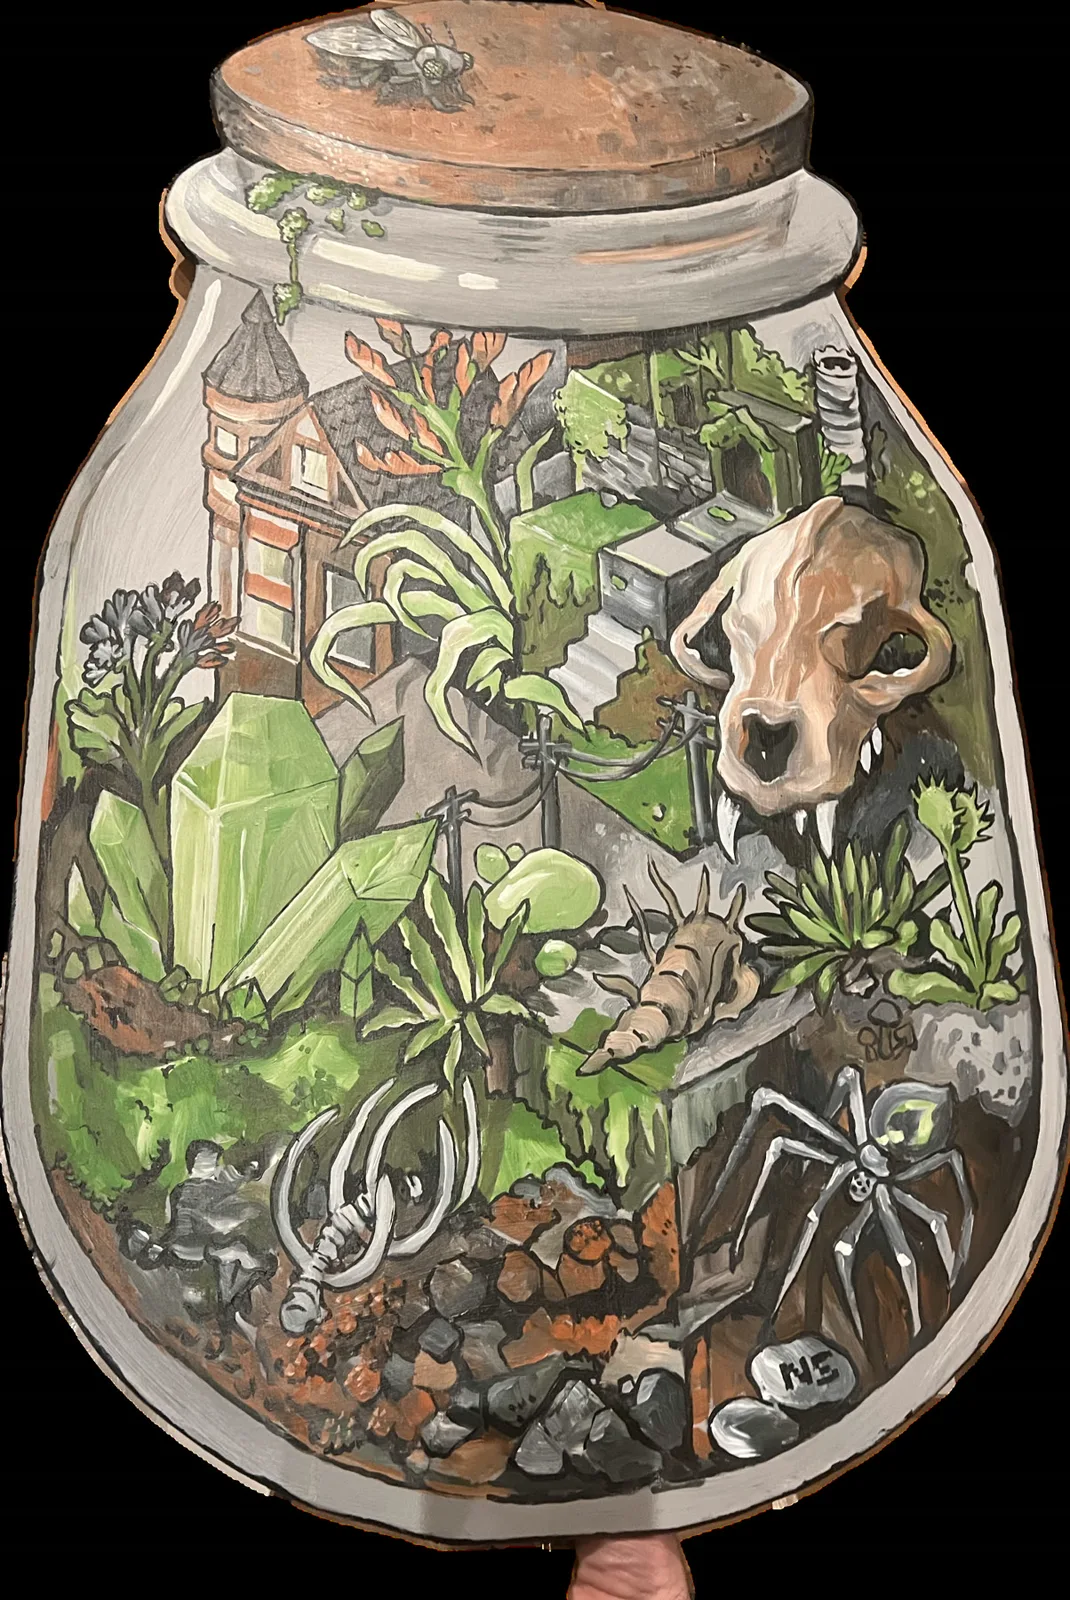
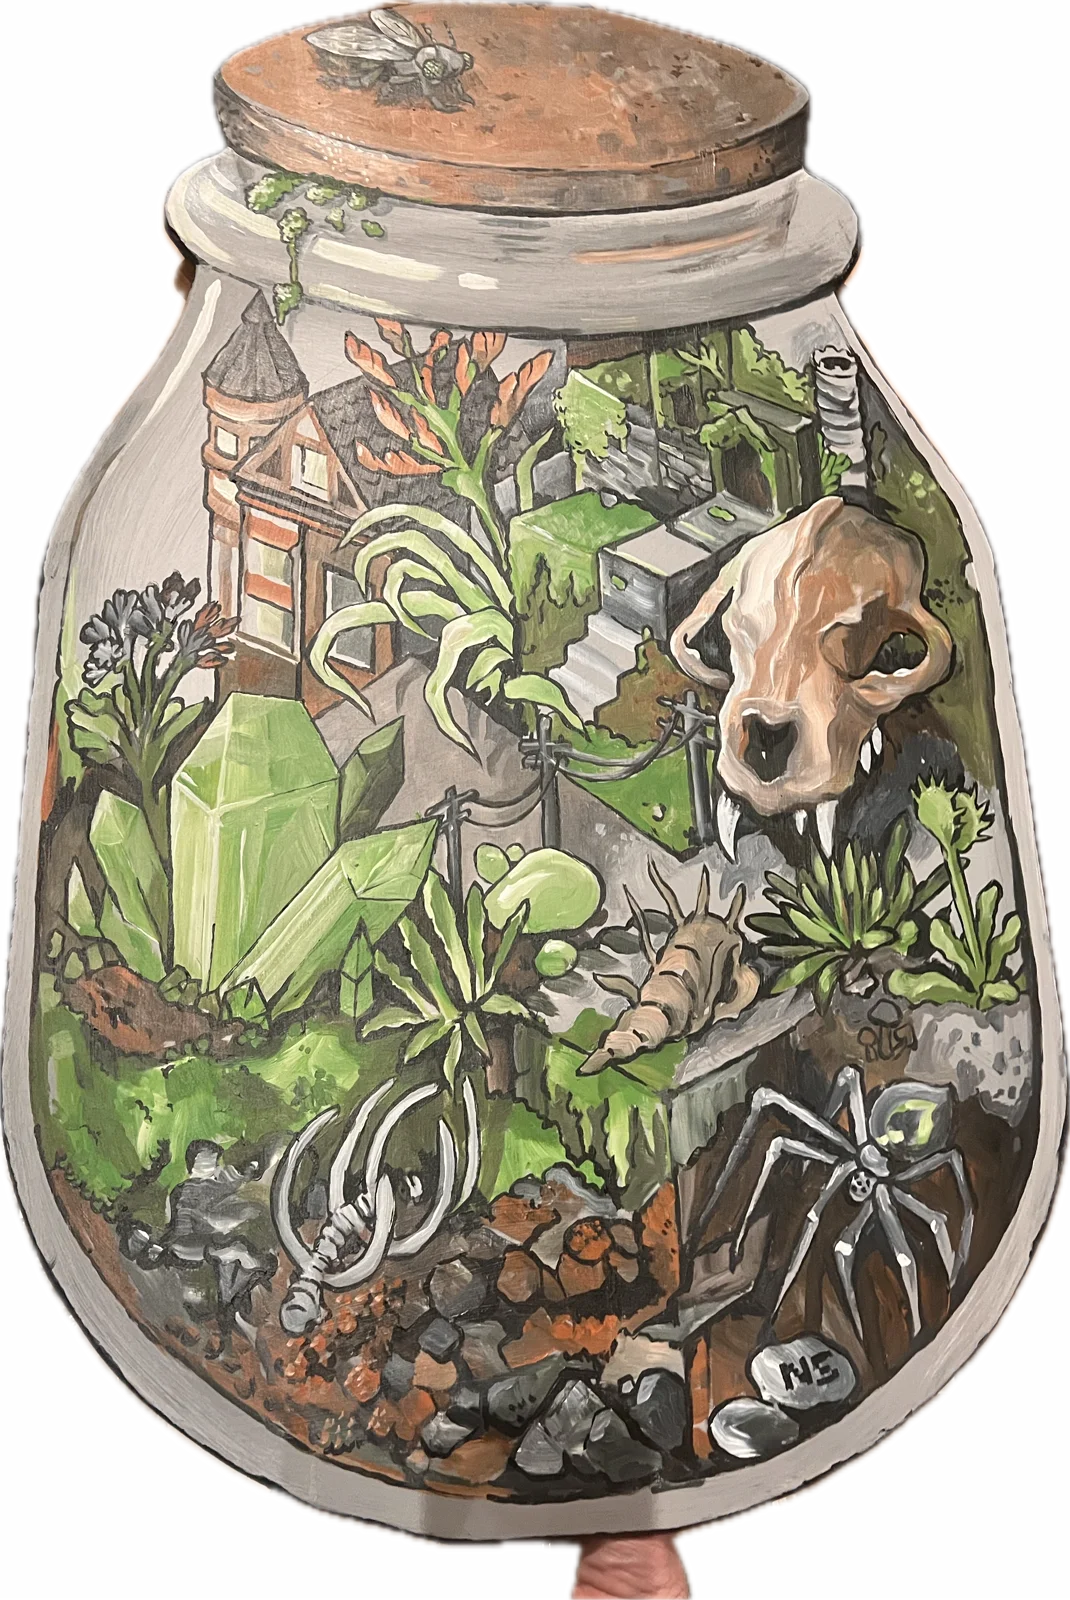
Events: showcase posters as a small 5s carousel, Nigel's piece transparent, artist captions, community nights reordered

Changed region(s): [[0.0, 0.0, 1.0, 1.0], [0.0, 0.6875, 0.5551, 1.0]]

diff --git a/events.html b/events.html
@@ -17,9 +17,9 @@
 <link rel="preconnect" href="https://fonts.googleapis.com">
 <link rel="preconnect" href="https://fonts.gstatic.com" crossorigin>
 <link href="https://fonts.googleapis.com/css2?family=IBM+Plex+Mono&amp;family=IBM+Plex+Sans:wght@400;500;600&amp;family=Newsreader:ital,opsz,wght@0,6..72,300;0,6..72,400;0,6..72,500;1,6..72,300;1,6..72,400&amp;display=swap" rel="stylesheet">
-<link rel="stylesheet" href="css/site.css?v=20261003a">
+<link rel="stylesheet" href="css/site.css?v=20261003b">
 <script>document.documentElement.classList.add("js");setTimeout(function(){if(!window.siteReady)document.documentElement.classList.add("no-reveal")},2500)</script>
-<script type="module" src="js/site.js?v=20261003a"></script>
+<script type="module" src="js/site.js?v=20261003b"></script>
 </head>
 <body class="page-events">
 <a class="skip" href="#main">Skip to content</a>
@@ -104,32 +104,42 @@
 </figure>
 
 <h2 class="section-title">The Artist Showcase</h2>
-<p class="note">I designed a poster for each day.</p>
-<div class="grid g5">
-  <figure><button type="button" data-full="img/showcase-poster-1.webp"><img src="img/showcase-poster-1.webp" loading="lazy" alt="Artist Showcase poster: Nychos, graffiti artist and muralist, and Zac Amendolia, tattoo flash and toy design"></button>
-    <figcaption>Day 1 · Nychos &amp; Zac Amendolia</figcaption></figure>
-  <figure><button type="button" data-full="img/showcase-poster-2.webp"><img src="img/showcase-poster-2.webp" loading="lazy" alt="Artist Showcase poster: Nychos and E Dyer, paintings of city nightscapes and cosmic wonders"></button>
-    <figcaption>Day 2 · Nychos &amp; E Dyer</figcaption></figure>
-  <figure><button type="button" data-full="img/showcase-poster-3.webp"><img src="img/showcase-poster-3.webp" loading="lazy" alt="Artist Showcase poster: Nigel Sussman, complex isometric illustrations"></button>
-    <figcaption>Day 3 · Nigel Sussman</figcaption></figure>
-  <figure><button type="button" data-full="img/showcase-poster-4.webp"><img src="img/showcase-poster-4.webp" loading="lazy" alt="Artist Showcase poster: Michael McConnell, narrative animal art"></button>
-    <figcaption>Day 4 · Michael McConnell</figcaption></figure>
-  <figure><button type="button" data-full="img/showcase-poster-5.webp"><img src="img/showcase-poster-5.webp" loading="lazy" alt="Artist Showcase poster: Zachary Sweet, painting and augmented reality"></button>
-    <figcaption>Day 5 · Zachary Sweet</figcaption></figure>
+<div class="split narrow-left">
+  <figure class="carousel" data-interval="5000" style="--stage:.645" aria-roledescription="carousel" aria-label="Artist Showcase posters">
+    <div class="carousel-stage">
+      <button type="button" class="slide is-on" data-full="img/showcase-poster-1.webp" data-cap="Day 1 · Nychos &amp;amp; Zac Amendolia"><img src="img/showcase-poster-1.webp" alt="Artist Showcase poster: Nychos, graffiti artist and muralist, and Zac Amendolia, tattoo flash and toy design"></button>
+      <button type="button" class="slide" data-full="img/showcase-poster-2.webp" data-cap="Day 2 · Nychos &amp;amp; E Dyer" tabindex="-1" aria-hidden="true"><img src="img/showcase-poster-2.webp" loading="lazy" alt="Artist Showcase poster: Nychos and E Dyer, paintings of city nightscapes and cosmic wonders"></button>
+      <button type="button" class="slide" data-full="img/showcase-poster-3.webp" data-cap="Day 3 · Nigel Sussman" tabindex="-1" aria-hidden="true"><img src="img/showcase-poster-3.webp" loading="lazy" alt="Artist Showcase poster: Nigel Sussman, complex isometric illustrations"></button>
+      <button type="button" class="slide" data-full="img/showcase-poster-4.webp" data-cap="Day 4 · Michael McConnell" tabindex="-1" aria-hidden="true"><img src="img/showcase-poster-4.webp" loading="lazy" alt="Artist Showcase poster: Michael McConnell, narrative animal art"></button>
+      <button type="button" class="slide" data-full="img/showcase-poster-5.webp" data-cap="Day 5 · Zachary Sweet" tabindex="-1" aria-hidden="true"><img src="img/showcase-poster-5.webp" loading="lazy" alt="Artist Showcase poster: Zachary Sweet, painting and augmented reality"></button>
+    </div>
+    <figcaption>Day 1 · Nychos &amp; Zac Amendolia</figcaption>
+    <div class="carousel-controls" hidden>
+      <button type="button" class="dot" aria-label="Show Day 1 · Nychos and Zac Amendolia"></button>
+      <button type="button" class="dot" aria-label="Show Day 2 · Nychos and E Dyer"></button>
+      <button type="button" class="dot" aria-label="Show Day 3 · Nigel Sussman"></button>
+      <button type="button" class="dot" aria-label="Show Day 4 · Michael McConnell"></button>
+      <button type="button" class="dot" aria-label="Show Day 5 · Zachary Sweet"></button>
+      <button type="button" class="carousel-pause" aria-pressed="false">Pause</button>
+    </div>
+  </figure>
+  <div class="prose">
+    <p class="note">I designed a poster for each day.</p>
+  </div>
 </div>
 <div class="grid g3 even">
   <figure><button type="button" data-full="img/showcase-e-dyer.webp"><img src="img/showcase-e-dyer.webp" loading="lazy" alt="E Dyer painting at an easel in the Paxton Gate window, in silhouette"></button>
     <figcaption>E Dyer, painting in the window.</figcaption></figure>
   <figure><button type="button" data-full="img/showcase-zac-window.webp"><img src="img/showcase-zac-window.webp" loading="lazy" alt="Paxton Gate's front windows filled with Zac Amendolia's Greasy Creeps toys and a wall of tattoo flash"></button>
-    <figcaption>Zac Amendolia’s window: toys and tattoo flash.</figcaption></figure>
+    <figcaption>Zac Amendolia’s window: his handmade Greasy Creeps toys and tattoo flash.</figcaption></figure>
   <figure><button type="button" data-full="img/showcase-passersby.webp"><img src="img/showcase-passersby.webp" loading="lazy" alt="Two people on the sidewalk looking closely at the toys in the Paxton Gate window"></button>
     <figcaption>Passers-by stopping at the window.</figcaption></figure>
   <figure><button type="button" data-full="img/showcase-zachary-sweet.webp"><img src="img/showcase-zachary-sweet.webp" loading="lazy" alt="Zachary Sweet in silhouette at the window, with people watching from inside the shop"></button>
-    <figcaption>Zachary Sweet at work, with an audience.</figcaption></figure>
-  <figure><button type="button" data-full="img/showcase-nigel-terrarium.webp"><img class="whole" src="img/showcase-nigel-terrarium.webp" loading="lazy" alt="Nigel Sussman's illustration of a glass terrarium jar holding a skull, crystals, plants and insects"></button>
-    <figcaption>Nigel Sussman’s piece, inspired by Paxton Gate.</figcaption></figure>
-  <figure><button type="button" data-full="img/showcase-mcconnell-people.webp"><img src="img/showcase-mcconnell-people.webp" loading="lazy" alt="Two watercolor portraits by Michael McConnell of Paxton Gate staff, one with an animal head"></button>
-    <figcaption>Michael McConnell painted the Paxton Gate staff.</figcaption></figure>
+    <figcaption>Zachary Sweet, painter and muralist, at work with an audience.</figcaption></figure>
+  <figure><button type="button" data-full="img/showcase-nigel-terrarium.webp"><img class="cutout" src="img/showcase-nigel-terrarium.webp" loading="lazy" alt="Nigel Sussman's illustration of a glass terrarium jar holding a skull, crystals, plants and insects"></button>
+    <figcaption>Nigel Sussman, known for his detailed isometric illustrations, made this piece inspired by Paxton Gate.</figcaption></figure>
+  <figure><button type="button" data-full="img/showcase-mcconnell-people.webp"><img src="img/showcase-mcconnell-people.webp" loading="lazy" alt="Two watercolor figures by Michael McConnell based on Paxton Gate staff, one with a raccoon's head"></button>
+    <figcaption>Michael McConnell paints narrative work with animal-headed figures. In the window, the Paxton Gate staff became his subjects.</figcaption></figure>
 </div>
 
 <div class="split">
@@ -181,12 +191,12 @@
     <figcaption>Meeting a python.</figcaption></figure>
   <figure><button type="button" data-full="img/creep-meet.webp"><img src="img/creep-meet.webp" loading="lazy" alt="A handler passing a ball python to a smiling visitor"></button>
     <figcaption>Up close with a handler.</figcaption></figure>
-  <figure><button type="button" data-full="img/creep-crowd.webp"><img src="img/creep-crowd.webp" loading="lazy" alt="A crowd gathered around a handler holding a snake in the plant room"></button>
-    <figcaption>The crowd around the handler.</figcaption></figure>
-  <figure><button type="button" data-full="img/herp-happy-hour.webp"><img src="img/herp-happy-hour.webp" loading="lazy" alt="A man with a snake draped over his shoulders at a crowded evening patio event"></button>
-    <figcaption>Herpetology Happy Hour with Mission Science Workshop.</figcaption></figure>
   <figure><button type="button" data-full="img/live-music-poster.webp"><img class="whole" src="img/live-music-poster.webp" loading="lazy" alt="Poster: Performing live at Paxton Gate, Divya Raghavan and Roo Harrigan, Thursday August 14th"></button>
     <figcaption>Valencia Live! music night: the poster I designed.</figcaption></figure>
+  <figure><button type="button" data-full="img/herp-happy-hour.webp"><img src="img/herp-happy-hour.webp" loading="lazy" alt="A man with a snake draped over his shoulders at a crowded evening patio event"></button>
+    <figcaption>Herpetology Happy Hour with Mission Science Workshop.</figcaption></figure>
+  <figure><button type="button" data-full="img/herp-happy-hour-2.webp"><img src="img/herp-happy-hour-2.webp" loading="lazy" alt="A smiling participant holding a corn snake at a crowded evening event"></button>
+    <figcaption>Getting close to the reptiles.</figcaption></figure>
   </div>
 </div>
 

diff --git a/css/site.css b/css/site.css
@@ -140,7 +140,7 @@ main{max-width:calc(var(--index-w) + 1240px);min-height:100vh}
 @media (max-width:760px){.chapter-head{grid-template-columns:1fr}.chapter-cover{order:-1}}
 
 /* a cover that changes: pictures stacked in one frame, one showing at a time */
-.carousel-stage{position:relative;aspect-ratio:1;max-height:70vh;margin-inline:auto}
+.carousel-stage{position:relative;aspect-ratio:var(--stage,1);max-height:70vh;margin-inline:auto}
 .carousel .slide{position:absolute;inset:0;opacity:0;visibility:hidden;
   transition:opacity 2.6s ease-in-out,visibility 0s 2.6s}
 .carousel .slide.is-on{opacity:1;visibility:visible;transition-delay:0s}
@@ -193,6 +193,11 @@ figcaption b{color:var(--ink);font-weight:500}
    product shot uncropped on a card */
 .grid.even img{width:100%;aspect-ratio:4/5;object-fit:cover}
 .grid.even img.whole{object-fit:contain;background:var(--card)}
+.grid.even img.cutout{object-fit:contain;background:none}
+/* a small picture beside its text */
+.split.narrow-left{grid-template-columns:minmax(160px,.32fr) minmax(0,1fr);align-items:center}
+.split.narrow-left>figure{max-width:280px}
+@media (max-width:760px){.split.narrow-left{grid-template-columns:1fr}}
 .grid figcaption{font-size:13px}
 .wide-figure video,.wide-figure img{width:100%;max-height:78vh;object-fit:contain;border-radius:2px;background:#000}
 @media (max-width:760px){.split,.split.wide-left,.grid.g2,.grid.g3{grid-template-columns:1fr}.grid.g4,.grid.g5{grid-template-columns:1fr 1fr}}

diff --git a/scans.html b/scans.html
@@ -17,9 +17,9 @@
 <link rel="preconnect" href="https://fonts.googleapis.com">
 <link rel="preconnect" href="https://fonts.gstatic.com" crossorigin>
 <link href="https://fonts.googleapis.com/css2?family=IBM+Plex+Mono&amp;family=IBM+Plex+Sans:wght@400;500;600&amp;family=Newsreader:ital,opsz,wght@0,6..72,300;0,6..72,400;0,6..72,500;1,6..72,300;1,6..72,400&amp;display=swap" rel="stylesheet">
-<link rel="stylesheet" href="css/site.css?v=20261003a">
+<link rel="stylesheet" href="css/site.css?v=20261003b">
 <script>document.documentElement.classList.add("js");setTimeout(function(){if(!window.siteReady)document.documentElement.classList.add("no-reveal")},2500)</script>
-<script type="module" src="js/site.js?v=20261003a"></script>
+<script type="module" src="js/site.js?v=20261003b"></script>
 <script type="module" src="https://cdn.jsdelivr.net/npm/@google/model-viewer@4.0.0/dist/model-viewer.min.js"></script>
 </head>
 <body class="page-scans">

diff --git a/illustration.html b/illustration.html
@@ -17,9 +17,9 @@
 <link rel="preconnect" href="https://fonts.googleapis.com">
 <link rel="preconnect" href="https://fonts.gstatic.com" crossorigin>
 <link href="https://fonts.googleapis.com/css2?family=IBM+Plex+Mono&amp;family=IBM+Plex+Sans:wght@400;500;600&amp;family=Newsreader:ital,opsz,wght@0,6..72,300;0,6..72,400;0,6..72,500;1,6..72,300;1,6..72,400&amp;display=swap" rel="stylesheet">
-<link rel="stylesheet" href="css/site.css?v=20261003a">
+<link rel="stylesheet" href="css/site.css?v=20261003b">
 <script>document.documentElement.classList.add("js");setTimeout(function(){if(!window.siteReady)document.documentElement.classList.add("no-reveal")},2500)</script>
-<script type="module" src="js/site.js?v=20261003a"></script>
+<script type="module" src="js/site.js?v=20261003b"></script>
 </head>
 <body class="page-illustration">
 <a class="skip" href="#main">Skip to content</a>

diff --git a/accents.html b/accents.html
@@ -17,9 +17,9 @@
 <link rel="preconnect" href="https://fonts.googleapis.com">
 <link rel="preconnect" href="https://fonts.gstatic.com" crossorigin>
 <link href="https://fonts.googleapis.com/css2?family=IBM+Plex+Mono&amp;family=IBM+Plex+Sans:wght@400;500;600&amp;family=Newsreader:ital,opsz,wght@0,6..72,300;0,6..72,400;0,6..72,500;1,6..72,300;1,6..72,400&amp;display=swap" rel="stylesheet">
-<link rel="stylesheet" href="css/site.css?v=20261003a">
+<link rel="stylesheet" href="css/site.css?v=20261003b">
 <script>document.documentElement.classList.add("js");setTimeout(function(){if(!window.siteReady)document.documentElement.classList.add("no-reveal")},2500)</script>
-<script type="module" src="js/site.js?v=20261003a"></script>
+<script type="module" src="js/site.js?v=20261003b"></script>
 </head>
 <body class="page-accents">
 <a class="skip" href="#main">Skip to content</a>

diff --git a/classes.html b/classes.html
@@ -17,9 +17,9 @@
 <link rel="preconnect" href="https://fonts.googleapis.com">
 <link rel="preconnect" href="https://fonts.gstatic.com" crossorigin>
 <link href="https://fonts.googleapis.com/css2?family=IBM+Plex+Mono&amp;family=IBM+Plex+Sans:wght@400;500;600&amp;family=Newsreader:ital,opsz,wght@0,6..72,300;0,6..72,400;0,6..72,500;1,6..72,300;1,6..72,400&amp;display=swap" rel="stylesheet">
-<link rel="stylesheet" href="css/site.css?v=20261003a">
+<link rel="stylesheet" href="css/site.css?v=20261003b">
 <script>document.documentElement.classList.add("js");setTimeout(function(){if(!window.siteReady)document.documentElement.classList.add("no-reveal")},2500)</script>
-<script type="module" src="js/site.js?v=20261003a"></script>
+<script type="module" src="js/site.js?v=20261003b"></script>
 </head>
 <body class="page-classes">
 <a class="skip" href="#main">Skip to content</a>

diff --git a/systems.html b/systems.html
@@ -17,9 +17,9 @@
 <link rel="preconnect" href="https://fonts.googleapis.com">
 <link rel="preconnect" href="https://fonts.gstatic.com" crossorigin>
 <link href="https://fonts.googleapis.com/css2?family=IBM+Plex+Mono&amp;family=IBM+Plex+Sans:wght@400;500;600&amp;family=Newsreader:ital,opsz,wght@0,6..72,300;0,6..72,400;0,6..72,500;1,6..72,300;1,6..72,400&amp;display=swap" rel="stylesheet">
-<link rel="stylesheet" href="css/site.css?v=20261003a">
+<link rel="stylesheet" href="css/site.css?v=20261003b">
 <script>document.documentElement.classList.add("js");setTimeout(function(){if(!window.siteReady)document.documentElement.classList.add("no-reveal")},2500)</script>
-<script type="module" src="js/site.js?v=20261003a"></script>
+<script type="module" src="js/site.js?v=20261003b"></script>
 </head>
 <body class="page-systems">
 <a class="skip" href="#main">Skip to content</a>

diff --git a/freddi.html b/freddi.html
@@ -17,9 +17,9 @@
 <link rel="preconnect" href="https://fonts.googleapis.com">
 <link rel="preconnect" href="https://fonts.gstatic.com" crossorigin>
 <link href="https://fonts.googleapis.com/css2?family=IBM+Plex+Mono&amp;family=IBM+Plex+Sans:wght@400;500;600&amp;family=Newsreader:ital,opsz,wght@0,6..72,300;0,6..72,400;0,6..72,500;1,6..72,300;1,6..72,400&amp;display=swap" rel="stylesheet">
-<link rel="stylesheet" href="css/site.css?v=20261003a">
+<link rel="stylesheet" href="css/site.css?v=20261003b">
 <script>document.documentElement.classList.add("js");setTimeout(function(){if(!window.siteReady)document.documentElement.classList.add("no-reveal")},2500)</script>
-<script type="module" src="js/site.js?v=20261003a"></script>
+<script type="module" src="js/site.js?v=20261003b"></script>
 </head>
 <body class="page-freddi">
 <a class="skip" href="#main">Skip to content</a>

diff --git a/motion.html b/motion.html
@@ -17,9 +17,9 @@
 <link rel="preconnect" href="https://fonts.googleapis.com">
 <link rel="preconnect" href="https://fonts.gstatic.com" crossorigin>
 <link href="https://fonts.googleapis.com/css2?family=IBM+Plex+Mono&amp;family=IBM+Plex+Sans:wght@400;500;600&amp;family=Newsreader:ital,opsz,wght@0,6..72,300;0,6..72,400;0,6..72,500;1,6..72,300;1,6..72,400&amp;display=swap" rel="stylesheet">
-<link rel="stylesheet" href="css/site.css?v=20261003a">
+<link rel="stylesheet" href="css/site.css?v=20261003b">
 <script>document.documentElement.classList.add("js");setTimeout(function(){if(!window.siteReady)document.documentElement.classList.add("no-reveal")},2500)</script>
-<script type="module" src="js/site.js?v=20261003a"></script>
+<script type="module" src="js/site.js?v=20261003b"></script>
 </head>
 <body class="page-motion">
 <a class="skip" href="#main">Skip to content</a>

diff --git a/index.html b/index.html
@@ -17,9 +17,9 @@
 <link rel="preconnect" href="https://fonts.googleapis.com">
 <link rel="preconnect" href="https://fonts.gstatic.com" crossorigin>
 <link href="https://fonts.googleapis.com/css2?family=IBM+Plex+Mono&amp;family=IBM+Plex+Sans:wght@400;500;600&amp;family=Newsreader:ital,opsz,wght@0,6..72,300;0,6..72,400;0,6..72,500;1,6..72,300;1,6..72,400&amp;display=swap" rel="stylesheet">
-<link rel="stylesheet" href="css/site.css?v=20261003a">
+<link rel="stylesheet" href="css/site.css?v=20261003b">
 <script>document.documentElement.classList.add("js");setTimeout(function(){if(!window.siteReady)document.documentElement.classList.add("no-reveal")},2500)</script>
-<script type="module" src="js/site.js?v=20261003a"></script>
+<script type="module" src="js/site.js?v=20261003b"></script>
 </head>
 <body class="page-home">
 <a class="skip" href="#main">Skip to content</a>

diff --git a/kit.html b/kit.html
@@ -17,9 +17,9 @@
 <link rel="preconnect" href="https://fonts.googleapis.com">
 <link rel="preconnect" href="https://fonts.gstatic.com" crossorigin>
 <link href="https://fonts.googleapis.com/css2?family=IBM+Plex+Mono&amp;family=IBM+Plex+Sans:wght@400;500;600&amp;family=Newsreader:ital,opsz,wght@0,6..72,300;0,6..72,400;0,6..72,500;1,6..72,300;1,6..72,400&amp;display=swap" rel="stylesheet">
-<link rel="stylesheet" href="css/site.css?v=20261003a">
+<link rel="stylesheet" href="css/site.css?v=20261003b">
 <script>document.documentElement.classList.add("js");setTimeout(function(){if(!window.siteReady)document.documentElement.classList.add("no-reveal")},2500)</script>
-<script type="module" src="js/site.js?v=20261003a"></script>
+<script type="module" src="js/site.js?v=20261003b"></script>
 </head>
 <body class="page-kit">
 <a class="skip" href="#main">Skip to content</a>
